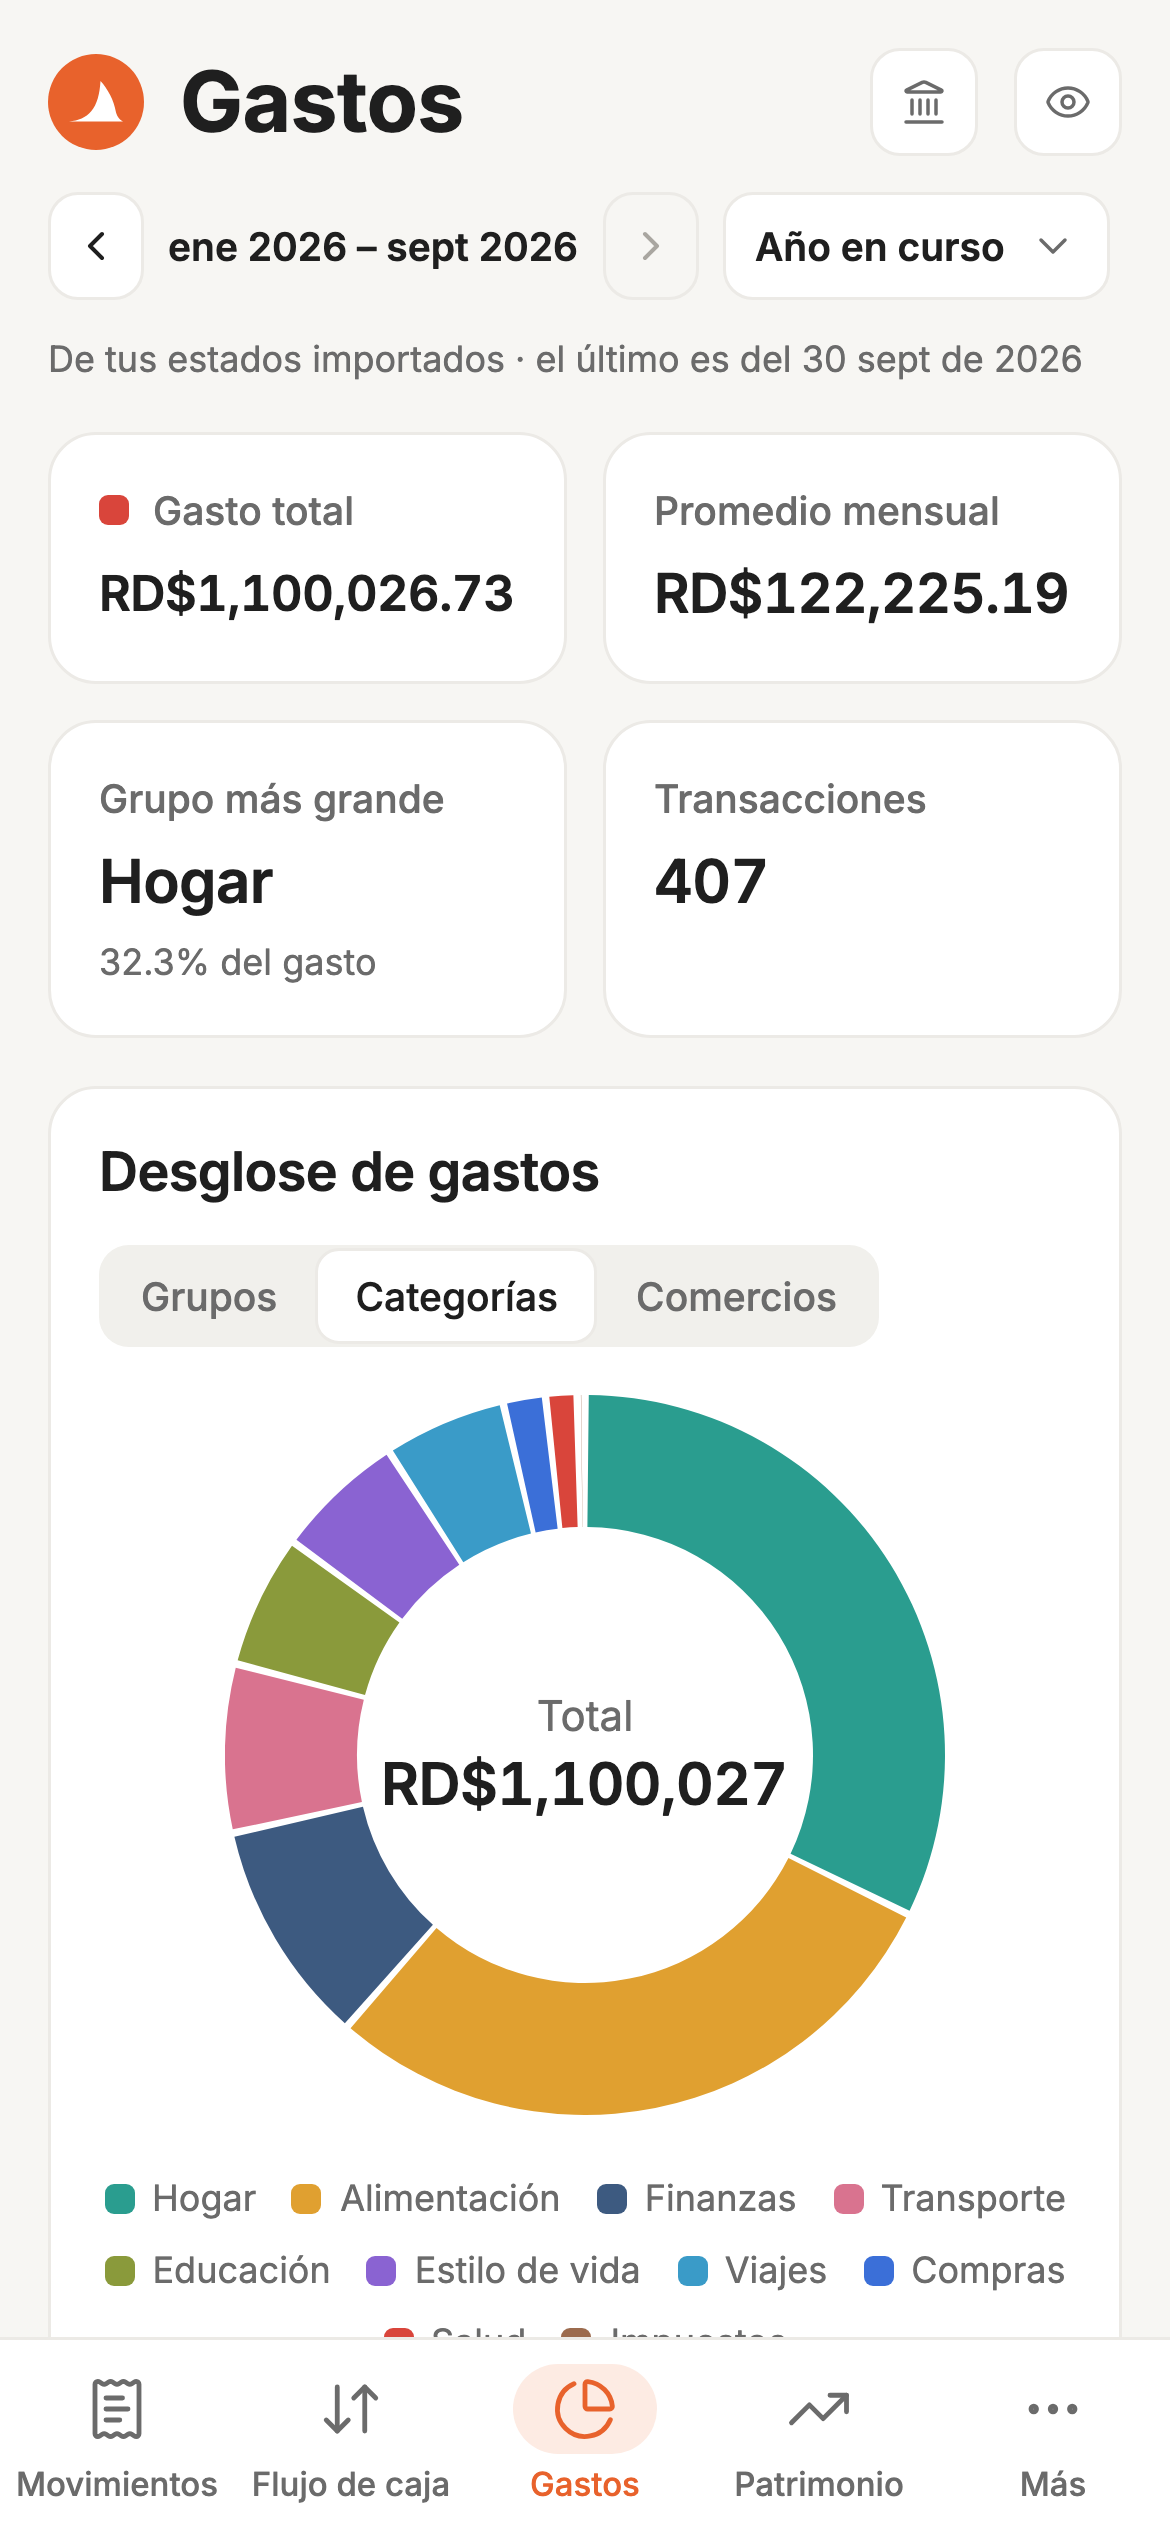
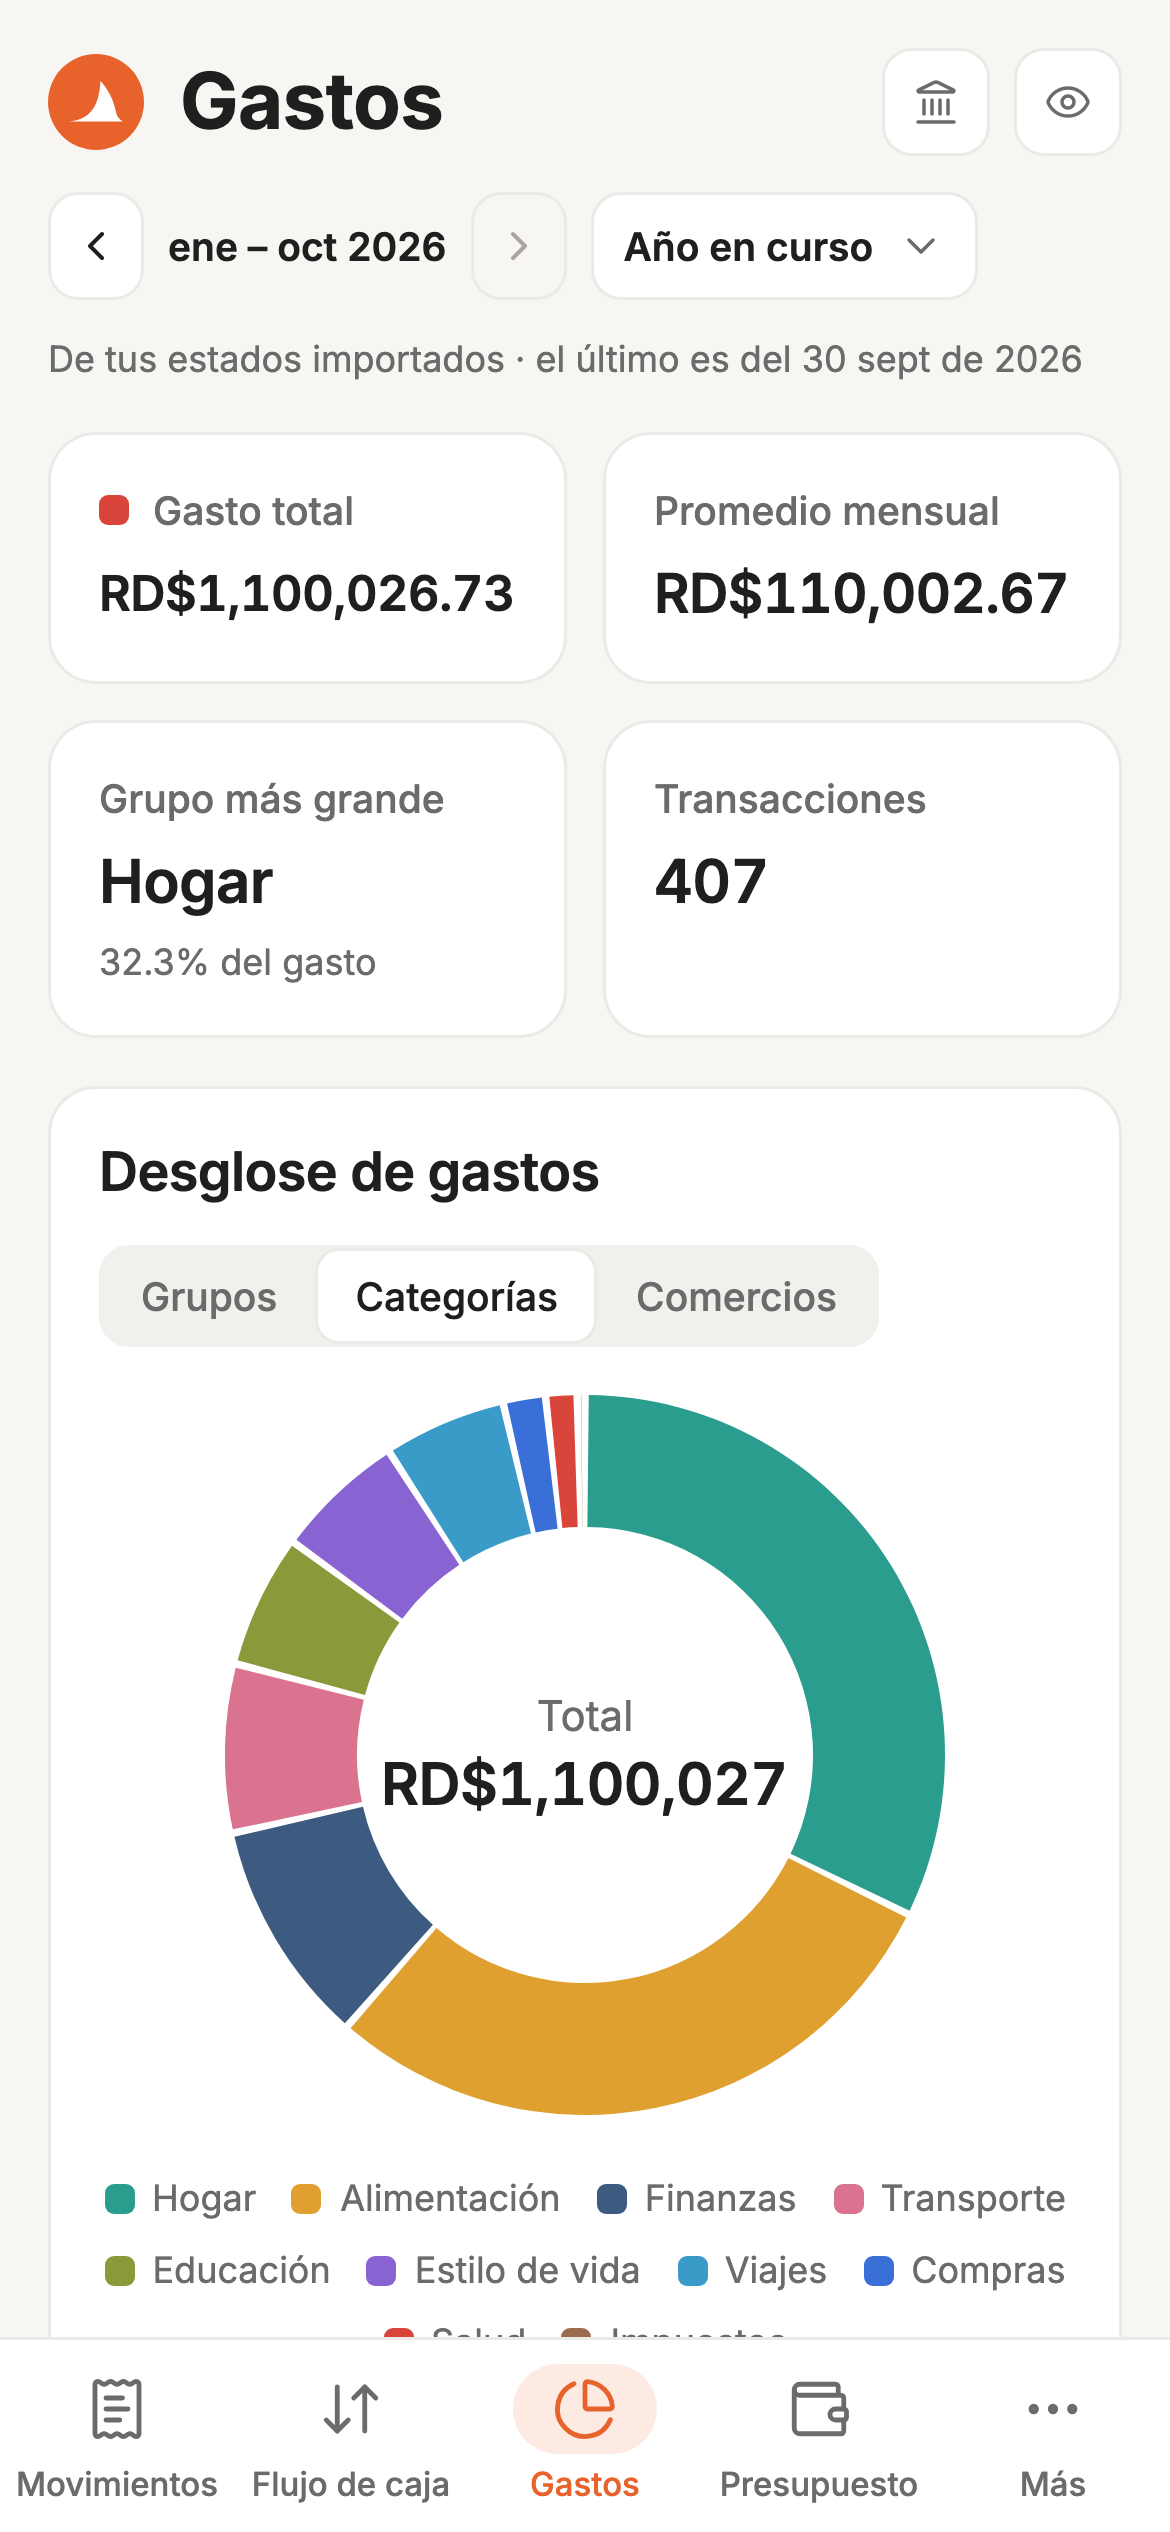
docs: show the budget and loans in the README and update the roadmap
New screenshots of every screen, taken from the demo data, including
the budget and a loan's payoff plan. The README now covers the phone
app that works without a computer, the first steps for the budget and
loans, and a roadmap that adds the store apps, backups from the phone,
sync between devices and a desktop app.

diff --git a/README.md b/README.md
@@ -7,7 +7,7 @@
 <p align="center">
   Tus finanzas personales en República Dominicana, armadas con los estados de
   cuenta de tu banco: en pesos y en dólares, y sin que tu información salga de
-  tu computadora.
+  tu computadora o tu teléfono.
 </p>
 
 <p align="center">
@@ -56,7 +56,8 @@ para [probar Domfin](#con-datos-de-ejemplo) sin tus estados.</sub>
 - **Respaldos cifrados**: una copia de tus datos en la carpeta de tu nube
   (iCloud Drive, Google Drive, Dropbox u OneDrive) cada día y después de cada
   importación, que solo abren tu contraseña o tu clave de recuperación.
-- En español y en inglés, en la web, iOS y Android.
+- En español y en inglés, en la web, iOS y Android. En el teléfono, la app
+  lleva adentro el motor de Domfin: no necesita computadora.
 
 ## Cómo se ve
 
@@ -73,6 +74,16 @@ para [probar Domfin](#con-datos-de-ejemplo) sin tus estados.</sub>
   </tr>
   <tr>
     <td width="50%" valign="top">
+      <img src="docs/images/presupuesto.png" alt="Presupuesto: los gastos fijos del mes, el ingreso, lo que queda para lo demás y cada gasto fijo con sus pagos de los últimos meses">
+      <p align="center"><b>Presupuesto</b> con tus gastos fijos</p>
+    </td>
+    <td width="50%" valign="top">
+      <img src="docs/images/prestamo.png" alt="Un préstamo: cuándo terminas de pagarlo, lo que falta, sus intereses y el desglose año por año">
+      <p align="center"><b>Préstamos</b>: cuándo terminas y cuánto en intereses</p>
+    </td>
+  </tr>
+  <tr>
+    <td width="50%" valign="top">
       <img src="docs/images/patrimonio-neto.png" alt="Patrimonio neto: activos, pasivos y su evolución mes a mes">
       <p align="center"><b>Patrimonio neto</b> mes a mes</p>
     </td>
@@ -84,11 +95,13 @@ para [probar Domfin](#con-datos-de-ejemplo) sin tus estados.</sub>
 </table>
 
 <p align="center">
-  <img src="docs/images/telefono-gastos.png" alt="Gastos en el teléfono" width="240">
+  <img src="docs/images/telefono-gastos.png" alt="Gastos en el teléfono" width="200">
   &nbsp;
-  <img src="docs/images/telefono-transacciones.png" alt="Transacciones en el teléfono" width="240">
+  <img src="docs/images/telefono-transacciones.png" alt="Transacciones en el teléfono" width="200">
   &nbsp;
-  <img src="docs/images/telefono-posesiones.png" alt="Posesiones en el teléfono" width="240">
+  <img src="docs/images/telefono-presupuesto.png" alt="Presupuesto en el teléfono" width="200">
+  &nbsp;
+  <img src="docs/images/telefono-prestamo.png" alt="Cuándo terminas de pagar un préstamo, en el teléfono" width="200">
 </p>
 
 ## Qué bancos lee
@@ -100,14 +113,16 @@ para [probar Domfin](#con-datos-de-ejemplo) sin tus estados.</sub>
 
 ¿Tu banco no está? Mira [cómo agregar uno](CONTRIBUTING.md#agregar-un-banco).
 
-## Tu información no sale de tu computadora
+## Tu información se queda en tus equipos
 
-- Domfin son dos programas que corren en tu computadora: domfin-api
-  ([`api/`](api)), que lee y guarda tus estados, y la app ([`app/`](app)).
-  No hay cuentas que crear, ni servidor en la nube, ni conexión con tu
-  banco: tú le das los PDF.
+- En la computadora, Domfin son dos programas: domfin-api ([`api/`](api)),
+  que lee y guarda tus estados, y la app ([`app/`](app)), que abres en el
+  navegador. En el teléfono, la app lleva adentro el mismo motor y tus datos
+  se quedan en el teléfono. No hay cuentas que crear, ni servidor en la
+  nube, ni conexión con tu banco: tú le das los PDF.
 - domfin-api solo le da tus datos a esta misma computadora, nunca a otros
-  equipos de tu red.
+  equipos de tu red. En el teléfono, el motor solo le responde a la app de
+  Domfin: las demás apps no pueden leerlo.
 - La contraseña de tus PDF se guarda en la base local, que solo tu usuario
   puede leer. Domfin nunca la muestra.
 - Tus respaldos salen de tu computadora ya cifrados: el servicio de tu nube
@@ -212,6 +227,10 @@ Tu base no se toca, y la de ejemplo se borra al salir.
    suyas.
 5. **Posesiones**: agrega tu casa, tus acciones, tu AFP o tu vehículo, si
    aplica.
+6. **Presupuesto**: agrega como gastos fijos los pagos que se repiten
+   (Domfin te los sugiere) y mira cuánto te queda cada mes para lo demás.
+7. **Préstamos**: ponle a cada uno su tasa y su cuota para saber cuándo
+   terminas de pagarlo y cuánto se va en intereses.
 
 Cada mes, descarga tus estados nuevos e impórtalos.
 
@@ -289,19 +308,26 @@ sin el `DOMFIN_DATA_DIR=` del principio.
 
 ### En el teléfono
 
-La app también corre en iOS y Android, con un
+La app de iOS y Android lleva adentro el motor de Domfin, el mismo código de
+domfin-api: lee tus PDF, los guarda y los clasifica en el teléfono, sin
+computadora y sin internet (salvo para la tasa del dólar y el aviso de
+versiones). En el teléfono, comparte tus estados con Domfin desde el
+correo, Archivos o WhatsApp, y se importan solos.
+
+Por ahora se instala compilándola, con un
 [development build](https://docs.expo.dev/develop/development-builds/introduction/)
-de Expo (Expo Go no sirve: usa módulos nativos). Desde `app/`:
+de Expo (Expo Go no sirve: usa módulos nativos). Necesitas Go
+(`./domfin setup` lo instala), y Xcode para iOS o Android Studio con el NDK
+(en *SDK Manager*) para Android. Desde `app/`:
 
 ```bash
-npx expo run:ios       # simulador de iOS, en macOS con Xcode
-npx expo run:android   # emulador de Android, con Android Studio
+npx expo run:ios       # simulador de iOS, en macOS; con --device, tu iPhone
+npx expo run:android   # emulador de Android o tu teléfono, conectado
 ```
 
-Por privacidad, domfin-api solo le da tus datos a la computadora donde
-corre: funciona en el simulador o el emulador de esa computadora, pero no
-en un teléfono de verdad. En el emulador de Android, apunta la app a la
-computadora con `EXPO_PUBLIC_API_URL=http://10.0.2.2:8080`.
+Para tu iPhone, Xcode la firma con tu cuenta de Apple. Los datos del
+teléfono son aparte de los de tu computadora: todavía no se sincronizan
+(está en la [hoja de ruta](#hoja-de-ruta)).
 
 ### Configuración avanzada
 
@@ -309,7 +335,7 @@ Para los puertos, mira [Los puertos](#los-puertos).
 
 | Variable | Para qué | Por defecto |
 | --- | --- | --- |
-| `EXPO_PUBLIC_API_URL` | Dónde está domfin-api, si la arrancas a mano en otro puerto u otra computadora. | `http://localhost:8080` |
+| `EXPO_PUBLIC_API_URL` | Dónde está domfin-api para la web, si la arrancas a mano en otro puerto u otra computadora. La app del teléfono no la usa: lleva su propio motor. | `http://localhost:8080` |
 
 Ponla en un archivo `.env` en `app/` (copia `app/.env.example`). Las
 opciones de domfin-api están en [su README](api/README.md#configuración).
@@ -376,6 +402,15 @@ proponer otra cosa,
 - [ ] Año contra año: tus ingresos, gastos y ahorro frente a los del año
   anterior, con lo que subió y lo que bajó.
 
+**En el teléfono y en la computadora**
+
+- [ ] Domfin en la App Store y en Google Play, sin tener que compilarlo.
+- [ ] Respaldos desde el teléfono, en iCloud Drive o en la carpeta de tu nube
+  que elijas, y restaurar en el teléfono un respaldo de tu computadora.
+- [ ] Los mismos datos en el teléfono y en la computadora, sincronizados y
+  cifrados.
+- [ ] Una app de escritorio que no necesite terminal ni domfin-api aparte.
+
 **Plataforma**
 
 - [ ] Más bancos dominicanos; hoy lee el Popular y Qik. Si tienes estados de
@@ -412,6 +447,8 @@ proponer otra cosa,
   intereses año por año, incluidos los que subsidia tu empleador.
 - [x] Respaldos cifrados en la carpeta de tu nube (iCloud Drive, Google
   Drive, Dropbox u OneDrive), con contraseña y clave de recuperación.
+- [x] La app de iOS y Android funciona sola, sin computadora: lleva adentro
+  el motor de Domfin y tus datos se quedan en el teléfono.
 - [x] Español e inglés; web, iOS y Android.
 - [x] Modo claro y oscuro, o el de tu dispositivo.
 
@@ -420,7 +457,7 @@ proponer otra cosa,
 | Carpeta | Qué es |
 | --- | --- |
 | [`api/`](api) | domfin-api, en Go: lee los PDF, los guarda en SQLite, clasifica cada movimiento y trae la tasa del Banco Central. Sus documentos: [endpoints](api/docs/endpoints.md), [estados de cuenta](api/docs/estados-de-cuenta.md) y [el libro y la clasificación](api/docs/modelo-de-datos.md). |
-| [`app/`](app) | La app, en Expo (React Native): web, iOS y Android. Por dentro: [docs/desarrollo.md](app/docs/desarrollo.md). |
+| [`app/`](app) | La app, en Expo (React Native): web, iOS y Android. En iOS y Android lleva adentro el código de domfin-api ([`app/modules/domfin-engine`](app/modules/domfin-engine)). Por dentro: [docs/desarrollo.md](app/docs/desarrollo.md). |
 
 Para proponer cambios, mira [CONTRIBUTING.md](CONTRIBUTING.md); para
 reportar un problema de seguridad, [SECURITY.md](SECURITY.md).
